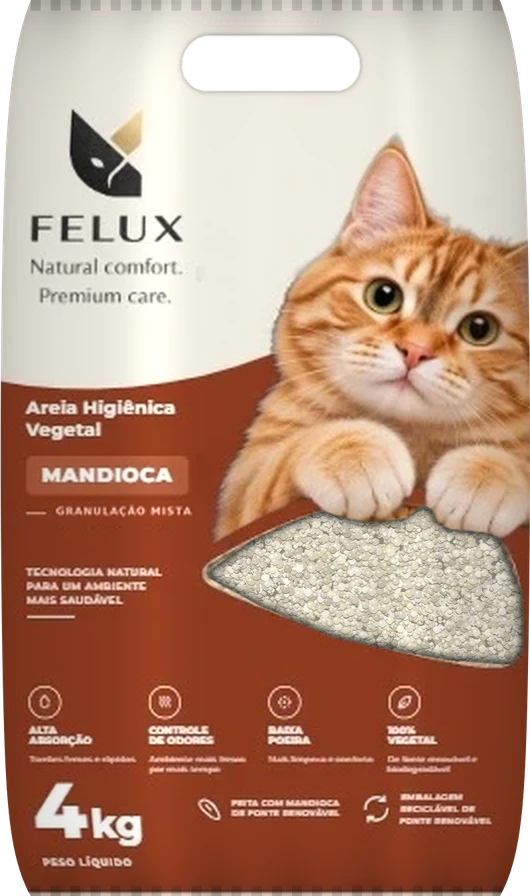
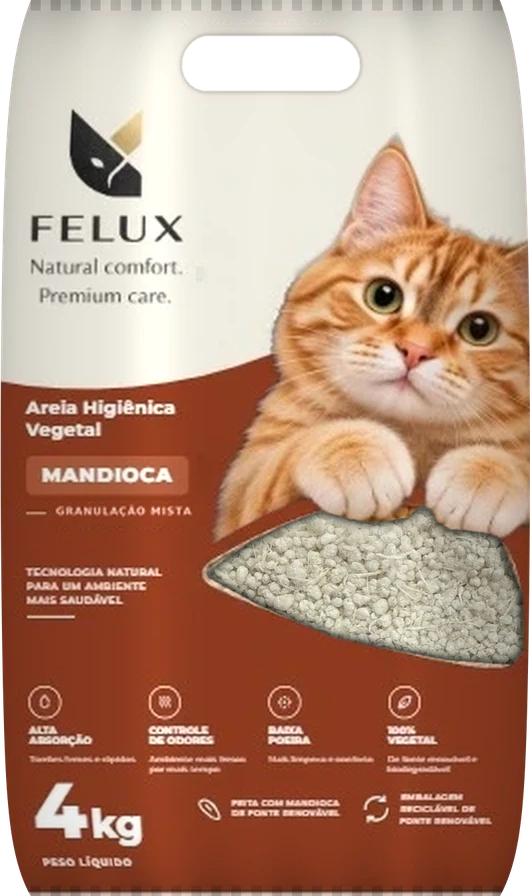
Foto real do grão misto de mandioca na galeria e na janela da embalagem
Fotos padrão novas entram uma vez nos dados salvos e respeitam remoções feitas no painel.

Claude-Session: https://claude.ai/code/session_019v6RiNL1QxHHFXsLvRtyUb

Changed region(s): [[0.3925, 0.5625, 0.9962, 0.75]]

diff --git a/index.html b/index.html
@@ -379,7 +379,7 @@ footer{border-top:1px solid var(--line);padding-block:28px}
 
 <a class="wa js-wa" href="#comprar" aria-label="Falar com a FELUX pelo WhatsApp"><svg viewBox="0 0 24 24" fill="currentColor" aria-hidden="true"><path d="M12 2a10 10 0 0 0-8.6 15.1L2 22l5-1.3A10 10 0 1 0 12 2Zm0 18.2a8.2 8.2 0 0 1-4.2-1.2l-.3-.2-3 .8.8-2.9-.2-.3A8.2 8.2 0 1 1 12 20.2Zm4.5-6.1c-.2-.1-1.5-.7-1.7-.8s-.4-.1-.6.1-.7.8-.8 1-.3.2-.5.1a6.7 6.7 0 0 1-3.3-2.9c-.2-.4.2-.4.7-1.3a.4.4 0 0 0 0-.4l-.8-1.8c-.2-.5-.4-.4-.6-.4h-.5a1 1 0 0 0-.7.3 3 3 0 0 0-.9 2.2 5.1 5.1 0 0 0 1.1 2.7 11.7 11.7 0 0 0 4.5 4c1.7.7 2.3.8 3.2.6a2.7 2.7 0 0 0 1.7-1.2 2.2 2.2 0 0 0 .2-1.2c-.1-.1-.3-.2-.5-.3Z"/></svg></a>
 
-<script type="application/json" id="felux-data">{"settings":{"whatsapp":"","whatsappMessage":"Olá! Quero comprar a areia FELUX.","instagram":"@feluxpet","cnpj":"00.000.000/0001-00","announcement":{"active":false,"text":"Frete grátis para compras acima de R$ 150","link":"#produtos"},"stores":[{"name":"Loja oficial","url":""},{"name":"Mercado Livre","url":""},{"name":"Amazon","url":""},{"name":"Shopee","url":""}],"coupons":[{"code":"BEMVINDO10","text":"10% na primeira compra","active":false}],"cycle":{"title":"Natureza em ciclo","text":"A FELUX promove o ciclo da natureza e o seu gato pode fazer parte disso. Tudo começa com a planta nascendo da terra e se transformando em uma areia macia e segura para ele. O seu gato usa, o torrão se forma e depois volta para a terra, nutrindo o novo ciclo.\n\nE essa escolha começa com você. No momento em que decide colocar a FELUX na caixa do seu gato, você dá o primeiro passo para que a natureza continue em ciclo, e para que ele faça parte disso todos os dias."}},"products":[{"id":"finos","name":"FELUX Grãos Finos","tag":"Granulação fina","weight":"4 kg","badge":"","active":true,"bullets":["Torrão em instantes, sai inteiro","Grãos macios para as patinhas","Menos areia jogada fora"],"variants":[{"id":"milho","label":"Milho","color":"#1F3F86","image":"assets/packs/felux-finos-milho.webp","composition":"100% milho","price":null,"salePrice":null,"buyUrl":"","inStock":true,"gallery":[]},{"id":"mandioca","label":"Mandioca","color":"#8E3B22","image":"assets/packs/felux-finos-mandioca.webp","composition":"100% mandioca","price":null,"salePrice":null,"buyUrl":"","inStock":true,"gallery":[]},{"id":"mista","label":"Milho + Mandioca","color":"#2B6144","image":"assets/packs/felux-finos-mista.webp","composition":"Milho e mandioca","price":null,"salePrice":null,"buyUrl":"","inStock":true,"gallery":[]}],"page":{"chip":"Torrão em instantes","statement":"Para todo gato. Até aquele que finge que não liga.","description":"A FELUX Grãos Finos forma o torrão em instantes e segura o odor dentro dele. Grãos finos e macios, baixa poeira e 100% vegetal. Escolha entre milho, mandioca ou milho + mandioca.","sections":[{"title":"Fez xixi, tem torrão. Tem torrão, não tem cheiro.","text":"O torrão se forma em instantes e sai inteiro. Menos areia jogada fora, mais tempo de caixa limpa.","image":"assets/scenes/torrao-finos.webp","round":false},{"title":"Aprovada pelo chefe da casa","text":"Grãos macios, do jeitinho que as patinhas dele merecem. Feita com ingredientes da natureza, para a saúde dele ficar protegida até na hora de se limpar.","image":"assets/scenes/gato.webp","round":true},{"title":"Todo mundo sai ganhando","text":"Ele fica feliz, você troca menos areia, o odor fica retido no torrão com máxima eficiência e a casa fica sempre cheirosa.","image":"assets/scenes/caixa-finos.webp","round":false}],"tip":"Use um tapete anti-rastro na saída da caixa. Assim os grãos ficam retidos nele, e não na sua sala.","quote":"O seu pet é parte essencial do ciclo da natureza que a FELUX promove, e é por causa dele que esse ciclo existe dentro da sua casa.","specs":[{"label":"Peso líquido","value":"4 kg"},{"label":"Granulação","value":"Fina"},{"label":"Poeira","value":"Baixa"},{"label":"Perfume","value":"Sem perfume sintético"},{"label":"Descarte","value":"Lixo orgânico ou compostagem"},{"label":"Embalagem","value":"Reciclável, de fonte renovável"}]}},{"id":"mistos","name":"FELUX Grãos Mistos","tag":"Granulação mista","weight":"4 kg","badge":"","active":true,"bullets":["Equilíbrio entre economia e menos rastro","Torrão firme num instante","Odor retido no torrão"],"variants":[{"id":"milho","label":"Milho","color":"#1F3F86","image":"assets/packs/felux-mistos-milho.webp","composition":"100% milho","price":null,"salePrice":null,"buyUrl":"","inStock":true,"gallery":["assets/photos/mistos-milho-grao.webp"]},{"id":"mandioca","label":"Mandioca","color":"#8E3B22","image":"assets/packs/felux-mistos-mandioca.webp","composition":"100% mandioca","price":null,"salePrice":null,"buyUrl":"","inStock":true,"gallery":[]},{"id":"mista","label":"Milho + Mandioca","color":"#2B6144","image":"assets/packs/felux-mistos-mista.webp","composition":"Milho e mandioca","price":null,"salePrice":null,"buyUrl":"","inStock":true,"gallery":[]}],"page":{"chip":"Equilíbrio","statement":"Para todo gato. Até aquele que finge que não liga.","description":"A FELUX Grãos Mistos junta grãos finos e grossos: torrão firme num instante, odor retido e menos areia espalhada pela casa. Baixa poeira e 100% vegetal. Escolha entre milho, mandioca ou milho + mandioca.","sections":[{"title":"O equilíbrio perfeito","text":"Os grânulos mistos equilibram economia com menos rastro. Fez xixi: odor retido e torrão pronto. Torrão firme num instante e menos areia espalhada pela casa.","image":"assets/photos/mistos-milho-grao-wide.webp","round":false},{"title":"Aprovada pelo chefe da casa","text":"Grãos macios, do jeitinho que as patinhas dele merecem. Feita com ingredientes da natureza, para ele ficar protegido até quando se lambe durante o banho.","image":"assets/scenes/gato.webp","round":true},{"title":"Todo mundo sai ganhando","text":"Ele fica feliz, você troca menos areia, o odor fica retido no torrão com máxima eficiência e a casa fica sempre cheirosa.","image":"assets/scenes/caixa-mistos.webp","round":false}],"tip":"Use um tapete anti-rastro na saída da caixa. Assim os grãos ficam retidos nele, e não na sua sala.","quote":"O seu pet é parte essencial do ciclo da natureza que a FELUX promove, e é por causa dele que esse ciclo existe dentro da sua casa.","specs":[{"label":"Peso líquido","value":"4 kg"},{"label":"Granulação","value":"Mista (grãos finos e grossos)"},{"label":"Poeira","value":"Baixa"},{"label":"Perfume","value":"Sem perfume sintético"},{"label":"Descarte","value":"Lixo orgânico ou compostagem"},{"label":"Embalagem","value":"Reciclável, de fonte renovável"}]}},{"id":"grossos","name":"FELUX Grãos Grossos","tag":"Granulação grossa","weight":"4 kg","badge":"","active":true,"bullets":["Grãos maiores, mínimo rastro","Torrão formado rapidamente","Os grãos ficam na caixa, não pela casa"],"variants":[{"id":"milho","label":"Milho","color":"#1F3F86","image":"assets/packs/felux-grossos-milho.webp","composition":"100% milho","price":null,"salePrice":null,"buyUrl":"","inStock":true,"gallery":[]},{"id":"mandioca","label":"Mandioca","color":"#8E3B22","image":"assets/packs/felux-grossos-mandioca.webp","composition":"100% mandioca","price":null,"salePrice":null,"buyUrl":"","inStock":true,"gallery":[]},{"id":"mista","label":"Milho + Mandioca","color":"#2B6144","image":"assets/packs/felux-grossos-mista.webp","composition":"Milho e mandioca","price":null,"salePrice":null,"buyUrl":"","inStock":true,"gallery":[]}],"page":{"chip":"Mínimo rastro","statement":"Para todo gato. Até aquele que finge que não liga.","description":"A FELUX Grãos Grossos tem grãos maiores, que formam o torrão rapidamente e ficam dentro da caixa. Baixa poeira e 100% vegetal. Escolha entre milho, mandioca ou milho + mandioca.","sections":[{"title":"Mínimo rastro, máxima tranquilidade","text":"Os grãos maiores formam o torrão rapidamente e ficam onde devem: na caixa, e não pela casa.","image":"assets/scenes/torrao-grossos.webp","round":false},{"title":"Aprovada pelo chefe da casa","text":"Grãos que o seu gato aprova, do jeitinho que as patinhas dele merecem. Feita com ingredientes da natureza, para a saúde dele ficar protegida até na hora de se limpar.","image":"assets/scenes/gato.webp","round":true},{"title":"Todo mundo sai ganhando","text":"Ele fica feliz, você fica feliz em vê-lo assim, o odor fica retido no torrão com máxima eficiência e a casa fica sempre cheirosa para todos curtirem.","image":"assets/scenes/caixa-grossos.webp","round":false}],"tip":"Para deixar tudo ainda mais limpo, use um tapete anti-rastro na saída da caixa.","quote":"O seu pet é parte essencial do ciclo da natureza que a FELUX promove, e é por causa dele que esse ciclo existe dentro da sua casa.","specs":[{"label":"Peso líquido","value":"4 kg"},{"label":"Granulação","value":"Grossa"},{"label":"Poeira","value":"Baixa"},{"label":"Perfume","value":"Sem perfume sintético"},{"label":"Descarte","value":"Lixo orgânico ou compostagem"},{"label":"Embalagem","value":"Reciclável, de fonte renovável"}]}}]}</script>
+<script type="application/json" id="felux-data">{"settings":{"whatsapp":"","whatsappMessage":"Olá! Quero comprar a areia FELUX.","instagram":"@feluxpet","cnpj":"00.000.000/0001-00","announcement":{"active":false,"text":"Frete grátis para compras acima de R$ 150","link":"#produtos"},"stores":[{"name":"Loja oficial","url":""},{"name":"Mercado Livre","url":""},{"name":"Amazon","url":""},{"name":"Shopee","url":""}],"coupons":[{"code":"BEMVINDO10","text":"10% na primeira compra","active":false}],"cycle":{"title":"Natureza em ciclo","text":"A FELUX promove o ciclo da natureza e o seu gato pode fazer parte disso. Tudo começa com a planta nascendo da terra e se transformando em uma areia macia e segura para ele. O seu gato usa, o torrão se forma e depois volta para a terra, nutrindo o novo ciclo.\n\nE essa escolha começa com você. No momento em que decide colocar a FELUX na caixa do seu gato, você dá o primeiro passo para que a natureza continue em ciclo, e para que ele faça parte disso todos os dias."}},"products":[{"id":"finos","name":"FELUX Grãos Finos","tag":"Granulação fina","weight":"4 kg","badge":"","active":true,"bullets":["Torrão em instantes, sai inteiro","Grãos macios para as patinhas","Menos areia jogada fora"],"variants":[{"id":"milho","label":"Milho","color":"#1F3F86","image":"assets/packs/felux-finos-milho.webp","composition":"100% milho","price":null,"salePrice":null,"buyUrl":"","inStock":true,"gallery":[]},{"id":"mandioca","label":"Mandioca","color":"#8E3B22","image":"assets/packs/felux-finos-mandioca.webp","composition":"100% mandioca","price":null,"salePrice":null,"buyUrl":"","inStock":true,"gallery":[]},{"id":"mista","label":"Milho + Mandioca","color":"#2B6144","image":"assets/packs/felux-finos-mista.webp","composition":"Milho e mandioca","price":null,"salePrice":null,"buyUrl":"","inStock":true,"gallery":[]}],"page":{"chip":"Torrão em instantes","statement":"Para todo gato. Até aquele que finge que não liga.","description":"A FELUX Grãos Finos forma o torrão em instantes e segura o odor dentro dele. Grãos finos e macios, baixa poeira e 100% vegetal. Escolha entre milho, mandioca ou milho + mandioca.","sections":[{"title":"Fez xixi, tem torrão. Tem torrão, não tem cheiro.","text":"O torrão se forma em instantes e sai inteiro. Menos areia jogada fora, mais tempo de caixa limpa.","image":"assets/scenes/torrao-finos.webp","round":false},{"title":"Aprovada pelo chefe da casa","text":"Grãos macios, do jeitinho que as patinhas dele merecem. Feita com ingredientes da natureza, para a saúde dele ficar protegida até na hora de se limpar.","image":"assets/scenes/gato.webp","round":true},{"title":"Todo mundo sai ganhando","text":"Ele fica feliz, você troca menos areia, o odor fica retido no torrão com máxima eficiência e a casa fica sempre cheirosa.","image":"assets/scenes/caixa-finos.webp","round":false}],"tip":"Use um tapete anti-rastro na saída da caixa. Assim os grãos ficam retidos nele, e não na sua sala.","quote":"O seu pet é parte essencial do ciclo da natureza que a FELUX promove, e é por causa dele que esse ciclo existe dentro da sua casa.","specs":[{"label":"Peso líquido","value":"4 kg"},{"label":"Granulação","value":"Fina"},{"label":"Poeira","value":"Baixa"},{"label":"Perfume","value":"Sem perfume sintético"},{"label":"Descarte","value":"Lixo orgânico ou compostagem"},{"label":"Embalagem","value":"Reciclável, de fonte renovável"}]}},{"id":"mistos","name":"FELUX Grãos Mistos","tag":"Granulação mista","weight":"4 kg","badge":"","active":true,"bullets":["Equilíbrio entre economia e menos rastro","Torrão firme num instante","Odor retido no torrão"],"variants":[{"id":"milho","label":"Milho","color":"#1F3F86","image":"assets/packs/felux-mistos-milho.webp","composition":"100% milho","price":null,"salePrice":null,"buyUrl":"","inStock":true,"gallery":["assets/photos/mistos-milho-grao.webp"]},{"id":"mandioca","label":"Mandioca","color":"#8E3B22","image":"assets/packs/felux-mistos-mandioca.webp","composition":"100% mandioca","price":null,"salePrice":null,"buyUrl":"","inStock":true,"gallery":["assets/photos/mistos-mandioca-grao.webp"]},{"id":"mista","label":"Milho + Mandioca","color":"#2B6144","image":"assets/packs/felux-mistos-mista.webp","composition":"Milho e mandioca","price":null,"salePrice":null,"buyUrl":"","inStock":true,"gallery":[]}],"page":{"chip":"Equilíbrio","statement":"Para todo gato. Até aquele que finge que não liga.","description":"A FELUX Grãos Mistos junta grãos finos e grossos: torrão firme num instante, odor retido e menos areia espalhada pela casa. Baixa poeira e 100% vegetal. Escolha entre milho, mandioca ou milho + mandioca.","sections":[{"title":"O equilíbrio perfeito","text":"Os grânulos mistos equilibram economia com menos rastro. Fez xixi: odor retido e torrão pronto. Torrão firme num instante e menos areia espalhada pela casa.","image":"assets/photos/mistos-milho-grao-wide.webp","round":false},{"title":"Aprovada pelo chefe da casa","text":"Grãos macios, do jeitinho que as patinhas dele merecem. Feita com ingredientes da natureza, para ele ficar protegido até quando se lambe durante o banho.","image":"assets/scenes/gato.webp","round":true},{"title":"Todo mundo sai ganhando","text":"Ele fica feliz, você troca menos areia, o odor fica retido no torrão com máxima eficiência e a casa fica sempre cheirosa.","image":"assets/scenes/caixa-mistos.webp","round":false}],"tip":"Use um tapete anti-rastro na saída da caixa. Assim os grãos ficam retidos nele, e não na sua sala.","quote":"O seu pet é parte essencial do ciclo da natureza que a FELUX promove, e é por causa dele que esse ciclo existe dentro da sua casa.","specs":[{"label":"Peso líquido","value":"4 kg"},{"label":"Granulação","value":"Mista (grãos finos e grossos)"},{"label":"Poeira","value":"Baixa"},{"label":"Perfume","value":"Sem perfume sintético"},{"label":"Descarte","value":"Lixo orgânico ou compostagem"},{"label":"Embalagem","value":"Reciclável, de fonte renovável"}]}},{"id":"grossos","name":"FELUX Grãos Grossos","tag":"Granulação grossa","weight":"4 kg","badge":"","active":true,"bullets":["Grãos maiores, mínimo rastro","Torrão formado rapidamente","Os grãos ficam na caixa, não pela casa"],"variants":[{"id":"milho","label":"Milho","color":"#1F3F86","image":"assets/packs/felux-grossos-milho.webp","composition":"100% milho","price":null,"salePrice":null,"buyUrl":"","inStock":true,"gallery":[]},{"id":"mandioca","label":"Mandioca","color":"#8E3B22","image":"assets/packs/felux-grossos-mandioca.webp","composition":"100% mandioca","price":null,"salePrice":null,"buyUrl":"","inStock":true,"gallery":[]},{"id":"mista","label":"Milho + Mandioca","color":"#2B6144","image":"assets/packs/felux-grossos-mista.webp","composition":"Milho e mandioca","price":null,"salePrice":null,"buyUrl":"","inStock":true,"gallery":[]}],"page":{"chip":"Mínimo rastro","statement":"Para todo gato. Até aquele que finge que não liga.","description":"A FELUX Grãos Grossos tem grãos maiores, que formam o torrão rapidamente e ficam dentro da caixa. Baixa poeira e 100% vegetal. Escolha entre milho, mandioca ou milho + mandioca.","sections":[{"title":"Mínimo rastro, máxima tranquilidade","text":"Os grãos maiores formam o torrão rapidamente e ficam onde devem: na caixa, e não pela casa.","image":"assets/scenes/torrao-grossos.webp","round":false},{"title":"Aprovada pelo chefe da casa","text":"Grãos que o seu gato aprova, do jeitinho que as patinhas dele merecem. Feita com ingredientes da natureza, para a saúde dele ficar protegida até na hora de se limpar.","image":"assets/scenes/gato.webp","round":true},{"title":"Todo mundo sai ganhando","text":"Ele fica feliz, você fica feliz em vê-lo assim, o odor fica retido no torrão com máxima eficiência e a casa fica sempre cheirosa para todos curtirem.","image":"assets/scenes/caixa-grossos.webp","round":false}],"tip":"Para deixar tudo ainda mais limpo, use um tapete anti-rastro na saída da caixa.","quote":"O seu pet é parte essencial do ciclo da natureza que a FELUX promove, e é por causa dele que esse ciclo existe dentro da sua casa.","specs":[{"label":"Peso líquido","value":"4 kg"},{"label":"Granulação","value":"Grossa"},{"label":"Poeira","value":"Baixa"},{"label":"Perfume","value":"Sem perfume sintético"},{"label":"Descarte","value":"Lixo orgânico ou compostagem"},{"label":"Embalagem","value":"Reciclável, de fonte renovável"}]}}]}</script>
 <script>
 (() => {
   // Conteúdo vem do painel (/admin) pela rota api/site. Sem servidor (ex.: prévia), usa os dados embutidos acima.

diff --git a/src/content.html b/src/content.html
@@ -363,7 +363,7 @@ footer{border-top:1px solid var(--line);padding-block:28px}
 
 <a class="wa js-wa" href="#comprar" aria-label="Falar com a FELUX pelo WhatsApp"><svg viewBox="0 0 24 24" fill="currentColor" aria-hidden="true"><path d="M12 2a10 10 0 0 0-8.6 15.1L2 22l5-1.3A10 10 0 1 0 12 2Zm0 18.2a8.2 8.2 0 0 1-4.2-1.2l-.3-.2-3 .8.8-2.9-.2-.3A8.2 8.2 0 1 1 12 20.2Zm4.5-6.1c-.2-.1-1.5-.7-1.7-.8s-.4-.1-.6.1-.7.8-.8 1-.3.2-.5.1a6.7 6.7 0 0 1-3.3-2.9c-.2-.4.2-.4.7-1.3a.4.4 0 0 0 0-.4l-.8-1.8c-.2-.5-.4-.4-.6-.4h-.5a1 1 0 0 0-.7.3 3 3 0 0 0-.9 2.2 5.1 5.1 0 0 0 1.1 2.7 11.7 11.7 0 0 0 4.5 4c1.7.7 2.3.8 3.2.6a2.7 2.7 0 0 0 1.7-1.2 2.2 2.2 0 0 0 .2-1.2c-.1-.1-.3-.2-.5-.3Z"/></svg></a>
 
-<script type="application/json" id="felux-data">{"settings":{"whatsapp":"","whatsappMessage":"Olá! Quero comprar a areia FELUX.","instagram":"@feluxpet","cnpj":"00.000.000/0001-00","announcement":{"active":false,"text":"Frete grátis para compras acima de R$ 150","link":"#produtos"},"stores":[{"name":"Loja oficial","url":""},{"name":"Mercado Livre","url":""},{"name":"Amazon","url":""},{"name":"Shopee","url":""}],"coupons":[{"code":"BEMVINDO10","text":"10% na primeira compra","active":false}],"cycle":{"title":"Natureza em ciclo","text":"A FELUX promove o ciclo da natureza e o seu gato pode fazer parte disso. Tudo começa com a planta nascendo da terra e se transformando em uma areia macia e segura para ele. O seu gato usa, o torrão se forma e depois volta para a terra, nutrindo o novo ciclo.\n\nE essa escolha começa com você. No momento em que decide colocar a FELUX na caixa do seu gato, você dá o primeiro passo para que a natureza continue em ciclo, e para que ele faça parte disso todos os dias."}},"products":[{"id":"finos","name":"FELUX Grãos Finos","tag":"Granulação fina","weight":"4 kg","badge":"","active":true,"bullets":["Torrão em instantes, sai inteiro","Grãos macios para as patinhas","Menos areia jogada fora"],"variants":[{"id":"milho","label":"Milho","color":"#1F3F86","image":"assets/packs/felux-finos-milho.webp","composition":"100% milho","price":null,"salePrice":null,"buyUrl":"","inStock":true,"gallery":[]},{"id":"mandioca","label":"Mandioca","color":"#8E3B22","image":"assets/packs/felux-finos-mandioca.webp","composition":"100% mandioca","price":null,"salePrice":null,"buyUrl":"","inStock":true,"gallery":[]},{"id":"mista","label":"Milho + Mandioca","color":"#2B6144","image":"assets/packs/felux-finos-mista.webp","composition":"Milho e mandioca","price":null,"salePrice":null,"buyUrl":"","inStock":true,"gallery":[]}],"page":{"chip":"Torrão em instantes","statement":"Para todo gato. Até aquele que finge que não liga.","description":"A FELUX Grãos Finos forma o torrão em instantes e segura o odor dentro dele. Grãos finos e macios, baixa poeira e 100% vegetal. Escolha entre milho, mandioca ou milho + mandioca.","sections":[{"title":"Fez xixi, tem torrão. Tem torrão, não tem cheiro.","text":"O torrão se forma em instantes e sai inteiro. Menos areia jogada fora, mais tempo de caixa limpa.","image":"assets/scenes/torrao-finos.webp","round":false},{"title":"Aprovada pelo chefe da casa","text":"Grãos macios, do jeitinho que as patinhas dele merecem. Feita com ingredientes da natureza, para a saúde dele ficar protegida até na hora de se limpar.","image":"assets/scenes/gato.webp","round":true},{"title":"Todo mundo sai ganhando","text":"Ele fica feliz, você troca menos areia, o odor fica retido no torrão com máxima eficiência e a casa fica sempre cheirosa.","image":"assets/scenes/caixa-finos.webp","round":false}],"tip":"Use um tapete anti-rastro na saída da caixa. Assim os grãos ficam retidos nele, e não na sua sala.","quote":"O seu pet é parte essencial do ciclo da natureza que a FELUX promove, e é por causa dele que esse ciclo existe dentro da sua casa.","specs":[{"label":"Peso líquido","value":"4 kg"},{"label":"Granulação","value":"Fina"},{"label":"Poeira","value":"Baixa"},{"label":"Perfume","value":"Sem perfume sintético"},{"label":"Descarte","value":"Lixo orgânico ou compostagem"},{"label":"Embalagem","value":"Reciclável, de fonte renovável"}]}},{"id":"mistos","name":"FELUX Grãos Mistos","tag":"Granulação mista","weight":"4 kg","badge":"","active":true,"bullets":["Equilíbrio entre economia e menos rastro","Torrão firme num instante","Odor retido no torrão"],"variants":[{"id":"milho","label":"Milho","color":"#1F3F86","image":"assets/packs/felux-mistos-milho.webp","composition":"100% milho","price":null,"salePrice":null,"buyUrl":"","inStock":true,"gallery":["assets/photos/mistos-milho-grao.webp"]},{"id":"mandioca","label":"Mandioca","color":"#8E3B22","image":"assets/packs/felux-mistos-mandioca.webp","composition":"100% mandioca","price":null,"salePrice":null,"buyUrl":"","inStock":true,"gallery":[]},{"id":"mista","label":"Milho + Mandioca","color":"#2B6144","image":"assets/packs/felux-mistos-mista.webp","composition":"Milho e mandioca","price":null,"salePrice":null,"buyUrl":"","inStock":true,"gallery":[]}],"page":{"chip":"Equilíbrio","statement":"Para todo gato. Até aquele que finge que não liga.","description":"A FELUX Grãos Mistos junta grãos finos e grossos: torrão firme num instante, odor retido e menos areia espalhada pela casa. Baixa poeira e 100% vegetal. Escolha entre milho, mandioca ou milho + mandioca.","sections":[{"title":"O equilíbrio perfeito","text":"Os grânulos mistos equilibram economia com menos rastro. Fez xixi: odor retido e torrão pronto. Torrão firme num instante e menos areia espalhada pela casa.","image":"assets/photos/mistos-milho-grao-wide.webp","round":false},{"title":"Aprovada pelo chefe da casa","text":"Grãos macios, do jeitinho que as patinhas dele merecem. Feita com ingredientes da natureza, para ele ficar protegido até quando se lambe durante o banho.","image":"assets/scenes/gato.webp","round":true},{"title":"Todo mundo sai ganhando","text":"Ele fica feliz, você troca menos areia, o odor fica retido no torrão com máxima eficiência e a casa fica sempre cheirosa.","image":"assets/scenes/caixa-mistos.webp","round":false}],"tip":"Use um tapete anti-rastro na saída da caixa. Assim os grãos ficam retidos nele, e não na sua sala.","quote":"O seu pet é parte essencial do ciclo da natureza que a FELUX promove, e é por causa dele que esse ciclo existe dentro da sua casa.","specs":[{"label":"Peso líquido","value":"4 kg"},{"label":"Granulação","value":"Mista (grãos finos e grossos)"},{"label":"Poeira","value":"Baixa"},{"label":"Perfume","value":"Sem perfume sintético"},{"label":"Descarte","value":"Lixo orgânico ou compostagem"},{"label":"Embalagem","value":"Reciclável, de fonte renovável"}]}},{"id":"grossos","name":"FELUX Grãos Grossos","tag":"Granulação grossa","weight":"4 kg","badge":"","active":true,"bullets":["Grãos maiores, mínimo rastro","Torrão formado rapidamente","Os grãos ficam na caixa, não pela casa"],"variants":[{"id":"milho","label":"Milho","color":"#1F3F86","image":"assets/packs/felux-grossos-milho.webp","composition":"100% milho","price":null,"salePrice":null,"buyUrl":"","inStock":true,"gallery":[]},{"id":"mandioca","label":"Mandioca","color":"#8E3B22","image":"assets/packs/felux-grossos-mandioca.webp","composition":"100% mandioca","price":null,"salePrice":null,"buyUrl":"","inStock":true,"gallery":[]},{"id":"mista","label":"Milho + Mandioca","color":"#2B6144","image":"assets/packs/felux-grossos-mista.webp","composition":"Milho e mandioca","price":null,"salePrice":null,"buyUrl":"","inStock":true,"gallery":[]}],"page":{"chip":"Mínimo rastro","statement":"Para todo gato. Até aquele que finge que não liga.","description":"A FELUX Grãos Grossos tem grãos maiores, que formam o torrão rapidamente e ficam dentro da caixa. Baixa poeira e 100% vegetal. Escolha entre milho, mandioca ou milho + mandioca.","sections":[{"title":"Mínimo rastro, máxima tranquilidade","text":"Os grãos maiores formam o torrão rapidamente e ficam onde devem: na caixa, e não pela casa.","image":"assets/scenes/torrao-grossos.webp","round":false},{"title":"Aprovada pelo chefe da casa","text":"Grãos que o seu gato aprova, do jeitinho que as patinhas dele merecem. Feita com ingredientes da natureza, para a saúde dele ficar protegida até na hora de se limpar.","image":"assets/scenes/gato.webp","round":true},{"title":"Todo mundo sai ganhando","text":"Ele fica feliz, você fica feliz em vê-lo assim, o odor fica retido no torrão com máxima eficiência e a casa fica sempre cheirosa para todos curtirem.","image":"assets/scenes/caixa-grossos.webp","round":false}],"tip":"Para deixar tudo ainda mais limpo, use um tapete anti-rastro na saída da caixa.","quote":"O seu pet é parte essencial do ciclo da natureza que a FELUX promove, e é por causa dele que esse ciclo existe dentro da sua casa.","specs":[{"label":"Peso líquido","value":"4 kg"},{"label":"Granulação","value":"Grossa"},{"label":"Poeira","value":"Baixa"},{"label":"Perfume","value":"Sem perfume sintético"},{"label":"Descarte","value":"Lixo orgânico ou compostagem"},{"label":"Embalagem","value":"Reciclável, de fonte renovável"}]}}]}</script>
+<script type="application/json" id="felux-data">{"settings":{"whatsapp":"","whatsappMessage":"Olá! Quero comprar a areia FELUX.","instagram":"@feluxpet","cnpj":"00.000.000/0001-00","announcement":{"active":false,"text":"Frete grátis para compras acima de R$ 150","link":"#produtos"},"stores":[{"name":"Loja oficial","url":""},{"name":"Mercado Livre","url":""},{"name":"Amazon","url":""},{"name":"Shopee","url":""}],"coupons":[{"code":"BEMVINDO10","text":"10% na primeira compra","active":false}],"cycle":{"title":"Natureza em ciclo","text":"A FELUX promove o ciclo da natureza e o seu gato pode fazer parte disso. Tudo começa com a planta nascendo da terra e se transformando em uma areia macia e segura para ele. O seu gato usa, o torrão se forma e depois volta para a terra, nutrindo o novo ciclo.\n\nE essa escolha começa com você. No momento em que decide colocar a FELUX na caixa do seu gato, você dá o primeiro passo para que a natureza continue em ciclo, e para que ele faça parte disso todos os dias."}},"products":[{"id":"finos","name":"FELUX Grãos Finos","tag":"Granulação fina","weight":"4 kg","badge":"","active":true,"bullets":["Torrão em instantes, sai inteiro","Grãos macios para as patinhas","Menos areia jogada fora"],"variants":[{"id":"milho","label":"Milho","color":"#1F3F86","image":"assets/packs/felux-finos-milho.webp","composition":"100% milho","price":null,"salePrice":null,"buyUrl":"","inStock":true,"gallery":[]},{"id":"mandioca","label":"Mandioca","color":"#8E3B22","image":"assets/packs/felux-finos-mandioca.webp","composition":"100% mandioca","price":null,"salePrice":null,"buyUrl":"","inStock":true,"gallery":[]},{"id":"mista","label":"Milho + Mandioca","color":"#2B6144","image":"assets/packs/felux-finos-mista.webp","composition":"Milho e mandioca","price":null,"salePrice":null,"buyUrl":"","inStock":true,"gallery":[]}],"page":{"chip":"Torrão em instantes","statement":"Para todo gato. Até aquele que finge que não liga.","description":"A FELUX Grãos Finos forma o torrão em instantes e segura o odor dentro dele. Grãos finos e macios, baixa poeira e 100% vegetal. Escolha entre milho, mandioca ou milho + mandioca.","sections":[{"title":"Fez xixi, tem torrão. Tem torrão, não tem cheiro.","text":"O torrão se forma em instantes e sai inteiro. Menos areia jogada fora, mais tempo de caixa limpa.","image":"assets/scenes/torrao-finos.webp","round":false},{"title":"Aprovada pelo chefe da casa","text":"Grãos macios, do jeitinho que as patinhas dele merecem. Feita com ingredientes da natureza, para a saúde dele ficar protegida até na hora de se limpar.","image":"assets/scenes/gato.webp","round":true},{"title":"Todo mundo sai ganhando","text":"Ele fica feliz, você troca menos areia, o odor fica retido no torrão com máxima eficiência e a casa fica sempre cheirosa.","image":"assets/scenes/caixa-finos.webp","round":false}],"tip":"Use um tapete anti-rastro na saída da caixa. Assim os grãos ficam retidos nele, e não na sua sala.","quote":"O seu pet é parte essencial do ciclo da natureza que a FELUX promove, e é por causa dele que esse ciclo existe dentro da sua casa.","specs":[{"label":"Peso líquido","value":"4 kg"},{"label":"Granulação","value":"Fina"},{"label":"Poeira","value":"Baixa"},{"label":"Perfume","value":"Sem perfume sintético"},{"label":"Descarte","value":"Lixo orgânico ou compostagem"},{"label":"Embalagem","value":"Reciclável, de fonte renovável"}]}},{"id":"mistos","name":"FELUX Grãos Mistos","tag":"Granulação mista","weight":"4 kg","badge":"","active":true,"bullets":["Equilíbrio entre economia e menos rastro","Torrão firme num instante","Odor retido no torrão"],"variants":[{"id":"milho","label":"Milho","color":"#1F3F86","image":"assets/packs/felux-mistos-milho.webp","composition":"100% milho","price":null,"salePrice":null,"buyUrl":"","inStock":true,"gallery":["assets/photos/mistos-milho-grao.webp"]},{"id":"mandioca","label":"Mandioca","color":"#8E3B22","image":"assets/packs/felux-mistos-mandioca.webp","composition":"100% mandioca","price":null,"salePrice":null,"buyUrl":"","inStock":true,"gallery":["assets/photos/mistos-mandioca-grao.webp"]},{"id":"mista","label":"Milho + Mandioca","color":"#2B6144","image":"assets/packs/felux-mistos-mista.webp","composition":"Milho e mandioca","price":null,"salePrice":null,"buyUrl":"","inStock":true,"gallery":[]}],"page":{"chip":"Equilíbrio","statement":"Para todo gato. Até aquele que finge que não liga.","description":"A FELUX Grãos Mistos junta grãos finos e grossos: torrão firme num instante, odor retido e menos areia espalhada pela casa. Baixa poeira e 100% vegetal. Escolha entre milho, mandioca ou milho + mandioca.","sections":[{"title":"O equilíbrio perfeito","text":"Os grânulos mistos equilibram economia com menos rastro. Fez xixi: odor retido e torrão pronto. Torrão firme num instante e menos areia espalhada pela casa.","image":"assets/photos/mistos-milho-grao-wide.webp","round":false},{"title":"Aprovada pelo chefe da casa","text":"Grãos macios, do jeitinho que as patinhas dele merecem. Feita com ingredientes da natureza, para ele ficar protegido até quando se lambe durante o banho.","image":"assets/scenes/gato.webp","round":true},{"title":"Todo mundo sai ganhando","text":"Ele fica feliz, você troca menos areia, o odor fica retido no torrão com máxima eficiência e a casa fica sempre cheirosa.","image":"assets/scenes/caixa-mistos.webp","round":false}],"tip":"Use um tapete anti-rastro na saída da caixa. Assim os grãos ficam retidos nele, e não na sua sala.","quote":"O seu pet é parte essencial do ciclo da natureza que a FELUX promove, e é por causa dele que esse ciclo existe dentro da sua casa.","specs":[{"label":"Peso líquido","value":"4 kg"},{"label":"Granulação","value":"Mista (grãos finos e grossos)"},{"label":"Poeira","value":"Baixa"},{"label":"Perfume","value":"Sem perfume sintético"},{"label":"Descarte","value":"Lixo orgânico ou compostagem"},{"label":"Embalagem","value":"Reciclável, de fonte renovável"}]}},{"id":"grossos","name":"FELUX Grãos Grossos","tag":"Granulação grossa","weight":"4 kg","badge":"","active":true,"bullets":["Grãos maiores, mínimo rastro","Torrão formado rapidamente","Os grãos ficam na caixa, não pela casa"],"variants":[{"id":"milho","label":"Milho","color":"#1F3F86","image":"assets/packs/felux-grossos-milho.webp","composition":"100% milho","price":null,"salePrice":null,"buyUrl":"","inStock":true,"gallery":[]},{"id":"mandioca","label":"Mandioca","color":"#8E3B22","image":"assets/packs/felux-grossos-mandioca.webp","composition":"100% mandioca","price":null,"salePrice":null,"buyUrl":"","inStock":true,"gallery":[]},{"id":"mista","label":"Milho + Mandioca","color":"#2B6144","image":"assets/packs/felux-grossos-mista.webp","composition":"Milho e mandioca","price":null,"salePrice":null,"buyUrl":"","inStock":true,"gallery":[]}],"page":{"chip":"Mínimo rastro","statement":"Para todo gato. Até aquele que finge que não liga.","description":"A FELUX Grãos Grossos tem grãos maiores, que formam o torrão rapidamente e ficam dentro da caixa. Baixa poeira e 100% vegetal. Escolha entre milho, mandioca ou milho + mandioca.","sections":[{"title":"Mínimo rastro, máxima tranquilidade","text":"Os grãos maiores formam o torrão rapidamente e ficam onde devem: na caixa, e não pela casa.","image":"assets/scenes/torrao-grossos.webp","round":false},{"title":"Aprovada pelo chefe da casa","text":"Grãos que o seu gato aprova, do jeitinho que as patinhas dele merecem. Feita com ingredientes da natureza, para a saúde dele ficar protegida até na hora de se limpar.","image":"assets/scenes/gato.webp","round":true},{"title":"Todo mundo sai ganhando","text":"Ele fica feliz, você fica feliz em vê-lo assim, o odor fica retido no torrão com máxima eficiência e a casa fica sempre cheirosa para todos curtirem.","image":"assets/scenes/caixa-grossos.webp","round":false}],"tip":"Para deixar tudo ainda mais limpo, use um tapete anti-rastro na saída da caixa.","quote":"O seu pet é parte essencial do ciclo da natureza que a FELUX promove, e é por causa dele que esse ciclo existe dentro da sua casa.","specs":[{"label":"Peso líquido","value":"4 kg"},{"label":"Granulação","value":"Grossa"},{"label":"Poeira","value":"Baixa"},{"label":"Perfume","value":"Sem perfume sintético"},{"label":"Descarte","value":"Lixo orgânico ou compostagem"},{"label":"Embalagem","value":"Reciclável, de fonte renovável"}]}}]}</script>
 <script>
 (() => {
   // Conteúdo vem do painel (/admin) pela rota api/site. Sem servidor (ex.: prévia), usa os dados embutidos acima.

diff --git a/server.js b/server.js
@@ -41,9 +41,16 @@ function readData() {
   }
   d.products.forEach(p => { if (!p.page) p.page = (byId[p.id] && byId[p.id].page) || null; });
   // versões salvas antes das fotos extras recebem as fotos padrão (ex.: foto real do grão)
-  d.products.forEach(p => (p.variants || []).forEach(v => {
-    if (!Array.isArray(v.gallery)) { const dv = byId[p.id] && (byId[p.id].variants || []).find(x => x.id === v.id); v.gallery = dv ? dv.gallery || [] : []; }
-  }));
+  d.products.forEach(p => (p.variants || []).forEach(v => { if (!Array.isArray(v.gallery)) v.gallery = []; }));
+  // fotos padrão novas entram uma vez nos dados salvos; se forem removidas no painel, não voltam
+  const applied = new Set(d.appliedDefaults || []);
+  def.products.forEach(dp => (dp.variants || []).forEach(dv => (dv.gallery || []).forEach(g => {
+    const key = `${dp.id}/${dv.id}/${g}`; if (applied.has(key)) return;
+    const sp = d.products.find(x => x.id === dp.id), sv = sp && (sp.variants || []).find(x => x.id === dv.id);
+    if (sv && !sv.gallery.includes(g)) sv.gallery.push(g);
+    applied.add(key);
+  })));
+  d.appliedDefaults = [...applied];
   // imagem gerada antiga do bloco dos Grãos Mistos vira a foto real, se ninguém trocou
   d.products.forEach(p => ((p.page && p.page.sections) || []).forEach(s => { if (s.image === 'assets/scenes/torrao-mistos.webp') s.image = 'assets/photos/mistos-milho-grao-wide.webp'; }));
   if (!d.settings.cycle) d.settings.cycle = def.settings.cycle;
@@ -90,6 +97,7 @@ function clean(input) {
   });
   const seen = new Set(); products.forEach(p => { while (seen.has(p.id)) p.id += '-2'; seen.add(p.id); });
   return {
+    appliedDefaults: (Array.isArray(input.appliedDefaults) ? input.appliedDefaults : []).filter(x => typeof x === 'string').slice(0, 200),
     settings: {
       whatsapp: str(s.whatsapp, 20).replace(/\D/g, ''),
       whatsappMessage: str(s.whatsappMessage, 200),

diff --git a/assets/source/mockup-embalagem.py b/assets/source/mockup-embalagem.py
@@ -62,7 +62,7 @@ def make(name, seed, gran='finos'):
     g=fine_grains((W,H),PAL[name],seed,gran)
     tp=f'assets/source/grao-{gran}-{name}.jpg'
     if os.path.exists(tp):  # foto real do grão na janela
-        t=Image.open(tp).convert('RGB'); k=0.5; t=t.resize((int(t.width*k),int(t.height*k)),Image.LANCZOS)
+        t=Image.open(tp).convert('RGB'); k=max(0.5,520/t.width); t=t.resize((int(t.width*k),int(t.height*k)),Image.LANCZOS)
         g=g.copy(); g.paste(t,(290,740))
     # sombra das patas e da borda superior da janela
     top=Image.new('L',(W,H),0); ImageDraw.Draw(top).polygon(poly,fill=255)
